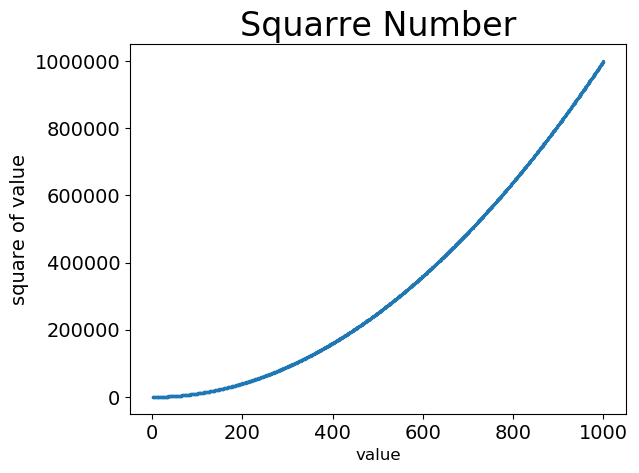
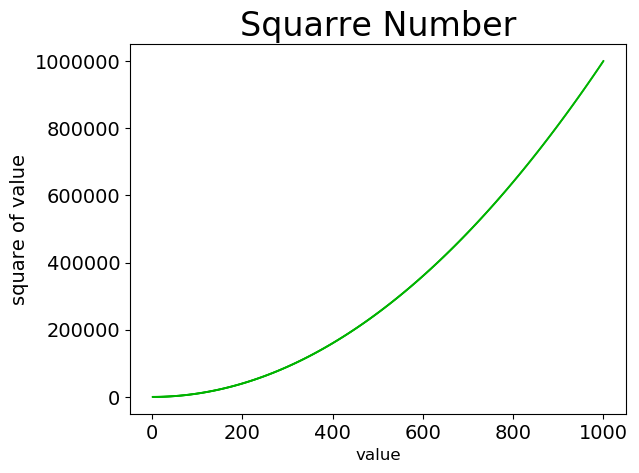
随机漫步

diff --git a/random_walk.py b/random_walk.py
@@ -1,0 +1,25 @@
+from random import choice
+class RandomWalk():
+    def __init__(self,num_points=5000):
+        self.num_points=num_points
+        self.x_valus=[0]
+        self.y_valus=[0]
+
+    def fill_walk(self):
+
+        while len(self.x_valus)<self.num_points:
+            x_direction=choice([1,-1])
+            x_distance=choice([0,1,2,3,4])
+            x_step=x_direction*x_distance
+         
+            y_direction=choice([1,-1])
+            y_distance=choice([0,1,2,3,4])
+            y_step=y_direction*y_distance
+
+            if x_step==0 and y_step==0:
+                continue
+            next_x=self.x_valus[-1]+x_step
+            next_y=self.y_valus[-1]+y_step
+            self.x_valus.append(next_x)
+            self.y_valus.append(next_y)
+

diff --git a/scatter_square.py b/scatter_square.py
@@ -1,8 +1,8 @@
 import matplotlib.pyplot as plt 
 x_values=list(range(1,1001))
 y_values=[x**2 for x in x_values]
-plt.scatter(x_values,y_values,s=2)
-plt.title("Squarre Number", fontsize=24)
+plt.scatter(x_values,y_values,c=(0,0.7,0),edgecolor='none',s=2)
+plt.title("Squarre Number",  fontsize=24)
 plt.xlabel("value",fontsize=12)
 plt.ylabel("square of value",fontsize=14)
 plt.tick_params(axis='both',which='major',labelsize=14)

diff --git a/rwVisual.py b/rwVisual.py
@@ -1,0 +1,12 @@
+from random_walk import RandomWalk 
+import matplotlib.pyplot as plt
+
+while True:
+    rw=RandomWalk()
+    rw.fill_walk()
+    plt.scatter(rw.x_valus,rw.y_valus,s=15)
+    plt.show()
+
+    keep_running=input("make another walk(y/n):")
+    if(keep_running=='n'):
+         break
